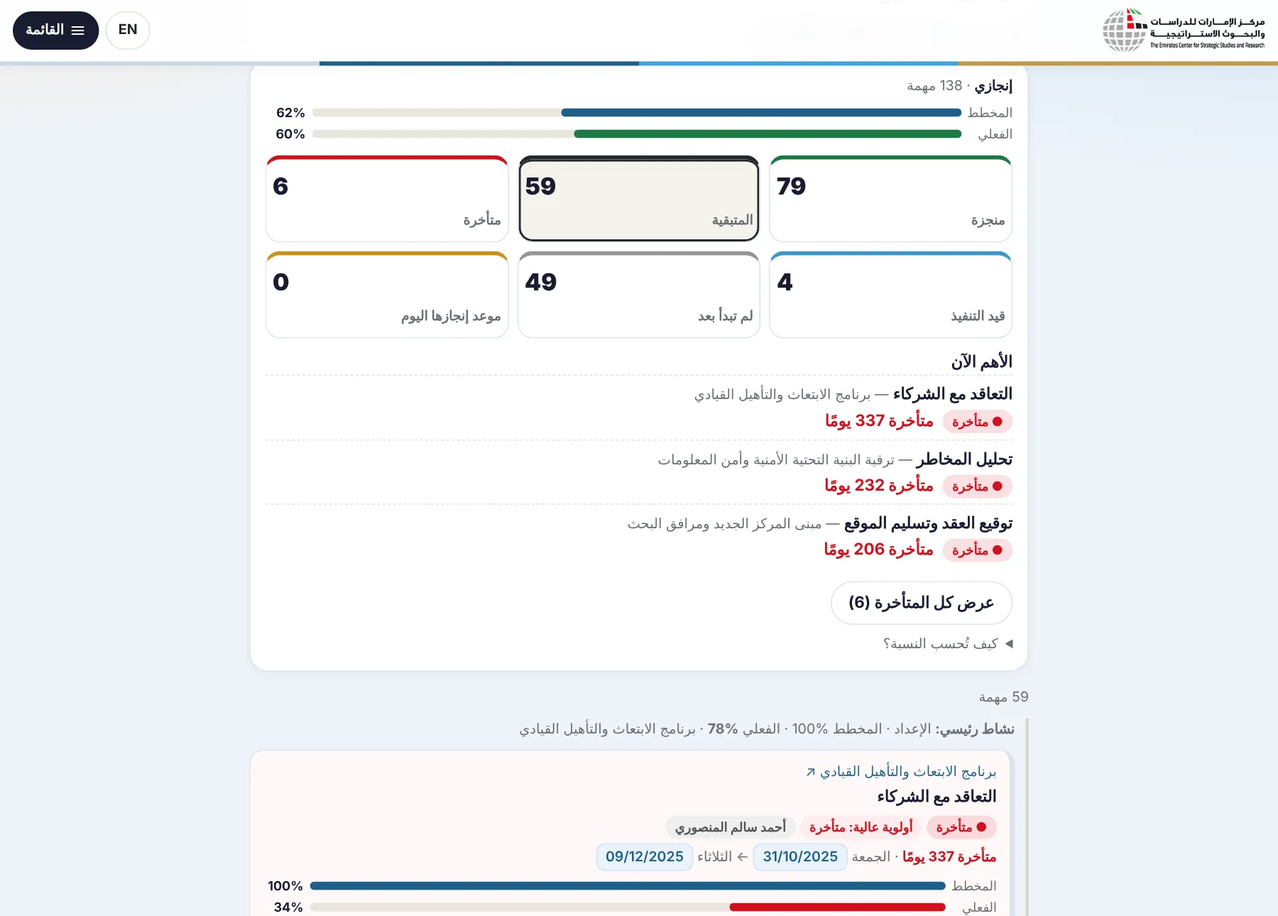
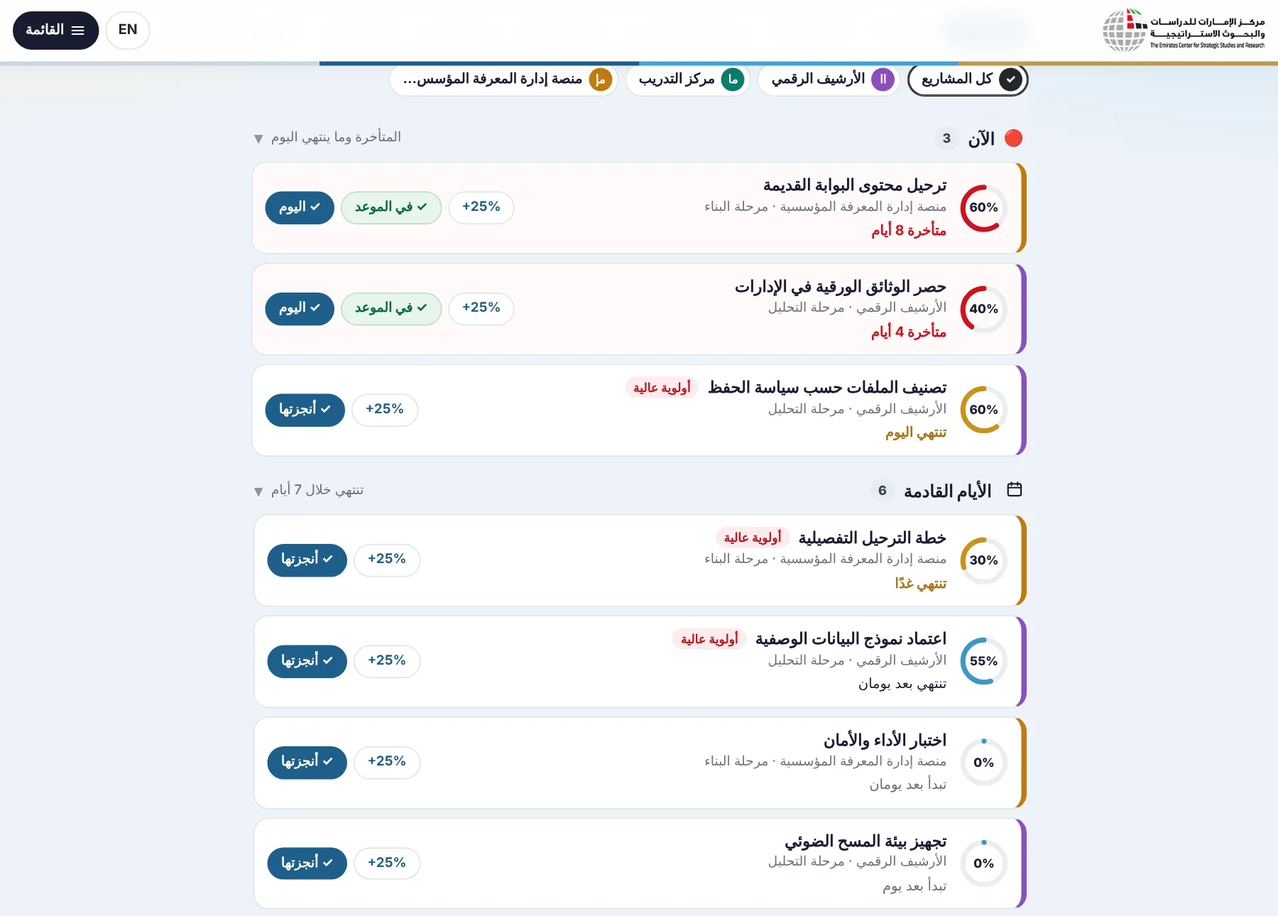
Visual tour: new My tasks screens (greeting tiles, time sections, task panel) with updated captions; accordion arrow direction in English
Claude-Session: https://claude.ai/code/session_01AUYYeyahPGT9XEoL5uypg9

diff --git a/tour/scenes.js b/tour/scenes.js
@@ -1,1 +1,1 @@
-window.SCENES={"phone":{"m":true,"ar":{"img":"img/phone_ar.webp","w":430,"h":932,"t":{"hero":{"x":14,"y":76,"w":402,"h":200},"nav":{"x":12,"y":847,"w":406,"h":75},"chat":{"x":14,"y":779,"w":54,"h":54},"create":{"x":298,"y":786,"w":119,"h":47},"tasksfab":{"x":282,"y":854,"w":63,"h":61}}},"en":{"img":"img/phone_en.webp","w":430,"h":932,"t":{"hero":{"x":14,"y":76,"w":402,"h":222},"nav":{"x":12,"y":847,"w":406,"h":75},"chat":{"x":362,"y":779,"w":54,"h":54},"create":{"x":14,"y":786,"w":136,"h":47},"tasksfab":{"x":85,"y":854,"w":63,"h":61}}}},"home":{"m":false,"ar":{"img":"img/home_ar.webp?v=2","w":1440,"h":900,"t":{"hero":{"x":234,"y":76,"w":972,"h":200},"summary":{"x":258,"y":138,"w":924,"h":45},"search":{"x":308,"y":197,"w":824,"h":45},"menu":{"x":234,"y":11,"w":81,"h":36},"lang":{"x":321,"y":11,"w":42,"h":36},"journey":{"x":234,"y":288,"w":972,"h":56},"tabs2":{"x":234,"y":358,"w":972,"h":41}}},"en":{"img":"img/home_en.webp?v=2","w":1440,"h":900,"t":{"hero":{"x":234,"y":76,"w":972,"h":200},"summary":{"x":258,"y":138,"w":924,"h":45},"search":{"x":308,"y":197,"w":824,"h":45},"menu":{"x":1125,"y":11,"w":81,"h":36},"lang":{"x":1066,"y":11,"w":53,"h":36},"journey":{"x":234,"y":288,"w":972,"h":56},"tabs2":{"x":234,"y":358,"w":972,"h":41}}}},"menu":{"m":false,"ar":{"img":"img/menu_ar.webp?v=2","w":1440,"h":900,"t":{"drawer":{"x":234,"y":53,"w":250,"h":402}}},"en":{"img":"img/menu_en.webp?v=2","w":1440,"h":900,"t":{"drawer":{"x":956,"y":53,"w":250,"h":402}}}},"board":{"m":false,"ar":{"img":"img/board_ar.webp?v=2","w":1440,"h":900,"t":{"scope":{"x":260,"y":149,"w":920,"h":37},"chips":{"x":260,"y":194,"w":920,"h":33},"legend":{"x":249,"y":280,"w":123,"h":35},"cols":{"x":249,"y":326,"w":942,"h":552},"col1":{"x":1011,"y":326,"w":180,"h":548},"col3":{"x":630,"y":326,"w":180,"h":548},"card":{"x":1021,"y":366,"w":162,"h":112},"act":{"x":1068,"y":447,"w":103,"h":25},"pj":{"x":1029,"y":447,"w":33,"h":25},"views":{"x":1001,"y":98,"w":142,"h":31},"more":{"x":1041,"y":280,"w":150,"h":35},"create":{"x":1308,"y":837,"w":119,"h":47},"chat":{"x":14,"y":765,"w":54,"h":54}}},"en":{"img":"img/board_en.webp?v=2","w":1440,"h":900,"t":{"scope":{"x":260,"y":149,"w":920,"h":37},"chips":{"x":260,"y":194,"w":920,"h":33},"legend":{"x":1098,"y":280,"w":93,"h":35},"cols":{"x":249,"y":326,"w":942,"h":552},"col1":{"x":249,"y":326,"w":180,"h":548},"col3":{"x":630,"y":326,"w":180,"h":548},"card":{"x":257,"y":366,"w":162,"h":112},"act":{"x":269,"y":447,"w":103,"h":25},"pj":{"x":378,"y":447,"w":33,"h":25},"views":{"x":342,"y":98,"w":161,"h":31},"more":{"x":249,"y":280,"w":179,"h":35},"create":{"x":14,"y":837,"w":136,"h":47},"chat":{"x":1372,"y":765,"w":54,"h":54}}}},"create":{"m":false,"ar":{"img":"img/create_ar.webp?v=2","w":1440,"h":900,"t":{"pop":{"x":1216,"y":648,"w":210,"h":184},"create":{"x":1308,"y":837,"w":119,"h":47}}},"en":{"img":"img/create_en.webp?v=2","w":1440,"h":900,"t":{"pop":{"x":14,"y":648,"w":210,"h":184},"create":{"x":14,"y":837,"w":136,"h":47}}}},"services":{"m":false,"ar":{"img":"img/services_ar.webp","w":1440,"h":900,"t":{"cards":{"x":234,"y":351,"w":972,"h":439},"card1":{"x":234,"y":351,"w":972,"h":439}}},"en":{"img":"img/services_en.webp","w":1440,"h":900,"t":{"cards":{"x":234,"y":328,"w":972,"h":461},"card1":{"x":234,"y":328,"w":972,"h":461}}}},"charter_home":{"m":false,"ar":{"img":"img/charter_home_ar.webp?v=2","w":1200,"h":860,"t":{"new":{"x":471,"y":144,"w":111,"h":43},"draft":{"x":180,"y":144,"w":157,"h":43},"kpis":{"x":162,"y":219,"w":876,"h":101},"list":{"x":162,"y":332,"w":876,"h":579},"tabs":{"x":162,"y":74,"w":876,"h":38}}},"en":{"img":"img/charter_home_en.webp?v=2","w":1200,"h":860,"t":{"new":{"x":635,"y":144,"w":135,"h":43},"draft":{"x":858,"y":144,"w":162,"h":43},"kpis":{"x":162,"y":219,"w":876,"h":101},"list":{"x":162,"y":332,"w":876,"h":620},"tabs":{"x":162,"y":74,"w":876,"h":38}}}},"ch_draft":{"m":false,"ar":{"img":"img/ch_draft_ar.webp","w":1200,"h":860,"t":{"head":{"x":177,"y":234,"w":841,"h":61},"prog":{"x":162,"y":451,"w":876,"h":27},"tabs":{"x":162,"y":486,"w":876,"h":54},"svc":{"x":162,"y":158,"w":876,"h":51},"fields":{"x":162,"y":545,"w":876,"h":976},"submit":{"x":552,"y":809,"w":109,"h":43},"save":{"x":670,"y":809,"w":117,"h":43},"files":{"x":413,"y":809,"w":131,"h":43}}},"en":{"img":"img/ch_draft_en.webp","w":1200,"h":860,"t":{"head":{"x":182,"y":234,"w":841,"h":61},"prog":{"x":162,"y":451,"w":876,"h":27},"tabs":{"x":162,"y":486,"w":876,"h":54},"svc":{"x":162,"y":158,"w":876,"h":51},"fields":{"x":162,"y":545,"w":876,"h":996},"submit":{"x":523,"y":809,"w":137,"h":43},"save":{"x":411,"y":809,"w":104,"h":43},"files":{"x":668,"y":809,"w":121,"h":43}}}},"plan_new":{"m":false,"ar":{"img":"img/plan_new_ar.webp","w":1200,"h":860,"t":{"list":{"x":177,"y":173,"w":846,"h":43},"start":{"x":915,"y":522,"w":92,"h":31},"tpl":{"x":162,"y":158,"w":876,"h":738}}},"en":{"img":"img/plan_new_en.webp","w":1200,"h":860,"t":{"list":{"x":177,"y":173,"w":846,"h":43},"start":{"x":193,"y":522,"w":114,"h":31},"tpl":{"x":162,"y":158,"w":876,"h":738}}}},"pl_draft":{"m":false,"ar":{"img":"img/pl_draft_ar.webp","w":1200,"h":860,"t":{"head":{"x":177,"y":234,"w":841,"h":61},"views":{"x":542,"y":579,"w":481,"h":37},"lab":{"x":636,"y":625,"w":126,"h":35},"checks":{"x":177,"y":717,"w":846,"h":26},"submit":{"x":554,"y":809,"w":106,"h":43},"collab":{"x":624,"y":486,"w":179,"h":40}}},"en":{"img":"img/pl_draft_en.webp","w":1200,"h":860,"t":{"head":{"x":182,"y":234,"w":841,"h":61},"views":{"x":177,"y":579,"w":596,"h":37},"lab":{"x":659,"y":625,"w":102,"h":35},"checks":{"x":177,"y":717,"w":846,"h":26},"submit":{"x":533,"y":809,"w":116,"h":43},"collab":{"x":420,"y":486,"w":181,"h":40}}}},"pl_gantt":{"m":false,"ar":{"img":"img/pl_gantt_ar.webp","w":1200,"h":860,"t":{"tab":{"x":837,"y":60,"w":94,"h":35},"chart":{"x":10,"y":346,"w":1180,"h":204}}},"en":{"img":"img/pl_gantt_en.webp","w":1200,"h":860,"t":{"tab":{"x":265,"y":60,"w":121,"h":35},"chart":{"x":10,"y":346,"w":1180,"h":204}}}},"tasks":{"m":false,"ar":{"img":"img/tasks_ar.webp","w":1200,"h":860,"t":{"scope":{"x":234,"y":195,"w":732,"h":41},"chips":{"x":234,"y":345,"w":732,"h":88},"add":{"x":835,"y":487,"w":131,"h":41},"cal":{"x":659,"y":487,"w":168,"h":41},"views":{"x":234,"y":296,"w":732,"h":41}}},"en":{"img":"img/tasks_en.webp","w":1200,"h":860,"t":{"scope":{"x":234,"y":195,"w":732,"h":41},"chips":{"x":234,"y":345,"w":732,"h":88},"add":{"x":234,"y":487,"w":200,"h":41},"cal":{"x":442,"y":487,"w":194,"h":41},"views":{"x":234,"y":296,"w":732,"h":41}}}},"tasks2":{"m":false,"ar":{"img":"img/tasks2_ar.webp","w":1200,"h":860,"t":{"kpis":{"x":249,"y":328,"w":702,"h":259}}},"en":{"img":"img/tasks2_en.webp","w":1200,"h":860,"t":{"kpis":{"x":249,"y":328,"w":702,"h":259}}}},"cr_draft":{"m":false,"ar":{"img":"img/cr_draft_ar.webp","w":1200,"h":860,"t":{"link":{"x":177,"y":525,"w":846,"h":128},"tabs":{"x":162,"y":422,"w":876,"h":54},"submit":{"x":553,"y":809,"w":107,"h":43}}},"en":{"img":"img/cr_draft_en.webp","w":1200,"h":860,"t":{"link":{"x":177,"y":525,"w":846,"h":128},"tabs":{"x":162,"y":422,"w":876,"h":54},"submit":{"x":521,"y":809,"w":140,"h":43}}}},"cl_draft":{"m":false,"ar":{"img":"img/cl_draft_ar.webp","w":1200,"h":860,"t":{"pick":{"x":177,"y":642,"w":846,"h":128},"tabs":{"x":162,"y":539,"w":876,"h":54},"submit":{"x":553,"y":809,"w":108,"h":43},"assigned":{"x":177,"y":379,"w":841,"h":45}}},"en":{"img":"img/cl_draft_en.webp","w":1200,"h":860,"t":{"pick":{"x":177,"y":642,"w":846,"h":128},"tabs":{"x":162,"y":539,"w":876,"h":54},"submit":{"x":527,"y":809,"w":129,"h":43},"assigned":{"x":182,"y":379,"w":841,"h":45}}}},"charter_review":{"m":false,"ar":{"img":"img/charter_review_ar.webp","w":1200,"h":860,"t":{"status":{"x":177,"y":234,"w":84,"h":23},"head":{"x":177,"y":234,"w":841,"h":61},"bar":{"x":150,"y":770,"w":900,"h":82},"sign":{"x":869,"y":770,"w":160,"h":43},"direct":{"x":566,"y":770,"w":294,"h":43},"back":{"x":436,"y":770,"w":122,"h":43},"feas":{"x":243,"y":770,"w":185,"h":43},"reject":{"x":171,"y":770,"w":64,"h":43},"notes":{"x":795,"y":451,"w":243,"h":43},"word":{"x":863,"y":381,"w":155,"h":43}}},"en":{"img":"img/charter_review_en.webp","w":1200,"h":860,"t":{"status":{"x":923,"y":234,"w":100,"h":23},"head":{"x":182,"y":234,"w":841,"h":61},"bar":{"x":150,"y":758,"w":900,"h":94},"sign":{"x":192,"y":758,"w":221,"h":43},"direct":{"x":421,"y":758,"w":417,"h":43},"back":{"x":846,"y":758,"w":161,"h":43},"feas":{"x":345,"y":809,"w":296,"h":43},"reject":{"x":649,"y":809,"w":76,"h":43},"notes":{"x":162,"y":451,"w":232,"h":43},"word":{"x":182,"y":381,"w":159,"h":43}}}},"review_flow":{"m":false,"ar":{"img":"img/review_flow_ar.webp","w":1200,"h":860,"t":{"followers":{"x":177,"y":149,"w":846,"h":198},"esc":{"x":177,"y":355,"w":846,"h":162},"stage1":{"x":177,"y":524,"w":846,"h":210},"bar":{"x":150,"y":770,"w":900,"h":82}}},"en":{"img":"img/review_flow_en.webp","w":1200,"h":860,"t":{"followers":{"x":177,"y":149,"w":846,"h":198},"esc":{"x":177,"y":355,"w":846,"h":162},"stage1":{"x":177,"y":524,"w":846,"h":210},"bar":{"x":150,"y":758,"w":900,"h":94}}}},"inbox":{"m":false,"ar":{"img":"img/inbox_ar.webp","w":1200,"h":860,"t":{"filters":{"x":234,"y":237,"w":732,"h":41},"svc":{"x":234,"y":286,"w":732,"h":41},"item":{"x":249,"y":15852,"w":702,"h":37}}},"en":{"img":"img/inbox_en.webp","w":1200,"h":860,"t":{"filters":{"x":234,"y":237,"w":732,"h":88},"svc":{"x":234,"y":333,"w":732,"h":41},"item":{"x":249,"y":15923,"w":702,"h":37}}}},"myprojects":{"m":false,"ar":{"img":"img/myprojects_ar.webp?v=2","w":1440,"h":900,"t":{"kpi":{"x":129,"y":129,"w":1183,"h":188},"views":{"x":964,"y":330,"w":347,"h":38},"card":{"x":927,"y":383,"w":385,"h":400},"health":{"x":942,"y":398,"w":86,"h":20},"steps":{"x":942,"y":569,"w":351,"h":40},"metrics":{"x":942,"y":617,"w":351,"h":53},"btns":{"x":942,"y":726,"w":351,"h":42}}},"en":{"img":"img/myprojects_en.webp?v=2","w":1440,"h":900,"t":{"kpi":{"x":129,"y":129,"w":1183,"h":233},"views":{"x":129,"y":376,"w":319,"h":38},"card":{"x":129,"y":428,"w":385,"h":421},"health":{"x":298,"y":443,"w":200,"h":20},"steps":{"x":148,"y":615,"w":351,"h":40},"metrics":{"x":148,"y":662,"w":351,"h":53},"btns":{"x":148,"y":792,"w":351,"h":42}}}},"portfolio":{"m":false,"ar":{"img":"img/portfolio_ar.webp","w":1440,"h":900,"t":{"tabs":{"x":134,"y":195,"w":1172,"h":134},"kpis":{"x":134,"y":412,"w":1172,"h":100},"prio":{"x":134,"y":523,"w":1172,"h":548}}},"en":{"img":"img/portfolio_en.webp","w":1440,"h":900,"t":{"tabs":{"x":134,"y":195,"w":1172,"h":134},"kpis":{"x":134,"y":412,"w":1172,"h":100},"prio":{"x":134,"y":523,"w":1172,"h":548}}}},"chat_open":{"m":false,"ar":{"img":"img/chat_open_ar.webp?v=2","w":1440,"h":900,"t":{"rail":{"x":939,"y":136,"w":318,"h":751},"conv":{"x":183,"y":132,"w":744,"h":693},"composer":{"x":191,"y":831,"w":728,"h":46},"mic":{"x":191,"y":831,"w":46,"h":46},"head":{"x":1009,"y":278,"w":174,"h":46}}},"en":{"img":"img/chat_open_en.webp?v=2","w":1440,"h":900,"t":{"rail":{"x":939,"y":136,"w":318,"h":751},"conv":{"x":183,"y":132,"w":744,"h":693},"composer":{"x":191,"y":831,"w":728,"h":46},"mic":{"x":191,"y":831,"w":46,"h":46},"head":{"x":1019,"y":300,"w":164,"h":46}}}},"ratings":{"m":false,"ar":{"img":"img/ratings_ar.webp","w":1200,"h":860,"t":{"filters":{"x":124,"y":189,"w":952,"h":175},"kpis":{"x":124,"y":378,"w":952,"h":78},"how":{"x":124,"y":469,"w":952,"h":55},"dist":{"x":124,"y":538,"w":952,"h":212}}},"en":{"img":"img/ratings_en.webp","w":1200,"h":860,"t":{"filters":{"x":124,"y":189,"w":952,"h":175},"kpis":{"x":124,"y":378,"w":952,"h":78},"how":{"x":124,"y":469,"w":952,"h":55},"dist":{"x":124,"y":538,"w":952,"h":212}}}},"workspace":{"m":false,"ar":{"img":"img/workspace_ar.webp?v=2","w":1440,"h":900,"t":{"btn":{"x":795,"y":314,"w":159,"h":38},"upd":{"x":129,"y":367,"w":1183,"h":331},"secs":{"x":129,"y":749,"w":1183,"h":73}}},"en":{"img":"img/workspace_en.webp?v=2","w":1440,"h":900,"t":{"btn":{"x":458,"y":314,"w":183,"h":38},"upd":{"x":129,"y":366,"w":1183,"h":331},"secs":{"x":129,"y":749,"w":1183,"h":73}}}},"ws_risks":{"m":false,"ar":{"img":"img/ws_risks_ar.webp?v=2","w":1440,"h":900,"t":{"quick":{"x":143,"y":646,"w":1152,"h":44},"row":{"x":142,"y":559,"w":1157,"h":131}}},"en":{"img":"img/ws_risks_en.webp?v=2","w":1440,"h":900,"t":{"quick":{"x":146,"y":646,"w":1152,"h":44},"row":{"x":142,"y":559,"w":1157,"h":131}}}},"ws_risk":{"m":false,"ar":{"img":"img/ws_risk_ar.webp?v=2","w":1440,"h":900,"t":{"sheet":{"x":420,"y":54,"w":600,"h":792},"quick":{"x":438,"y":269,"w":564,"h":183},"edit":{"x":438,"y":461,"w":564,"h":320}}},"en":{"img":"img/ws_risk_en.webp?v=2","w":1440,"h":900,"t":{"sheet":{"x":420,"y":54,"w":600,"h":792},"quick":{"x":438,"y":269,"w":564,"h":183},"edit":{"x":438,"y":461,"w":564,"h":320}}}},"ws_kpi":{"m":false,"ar":{"img":"img/ws_kpi_ar.webp?v=2","w":1440,"h":900,"t":{"sheet":{"x":420,"y":114,"w":600,"h":672},"hist":{"x":438,"y":366,"w":564,"h":84},"entry":{"x":438,"y":460,"w":564,"h":261}}},"en":{"img":"img/ws_kpi_en.webp?v=2","w":1440,"h":900,"t":{"sheet":{"x":420,"y":114,"w":600,"h":672},"hist":{"x":438,"y":366,"w":564,"h":84},"entry":{"x":438,"y":460,"w":564,"h":261}}}},"ws_acts":{"m":false,"ar":{"img":"img/ws_acts_ar.webp?v=2","w":1440,"h":900,"t":{"sheet":{"x":420,"y":319,"w":600,"h":262},"act":{"x":438,"y":467,"w":564,"h":49}}},"en":{"img":"img/ws_acts_en.webp?v=2","w":1440,"h":900,"t":{"sheet":{"x":420,"y":319,"w":600,"h":262},"act":{"x":438,"y":467,"w":564,"h":49}}}},"ws_bud":{"m":false,"ar":{"img":"img/ws_bud_ar.webp?v=2","w":1440,"h":900,"t":{"sheet":{"x":420,"y":210,"w":600,"h":480},"entry":{"x":438,"y":436,"w":564,"h":189},"link":{"x":438,"y":633,"w":564,"h":21}}},"en":{"img":"img/ws_bud_en.webp?v=2","w":1440,"h":900,"t":{"sheet":{"x":420,"y":210,"w":600,"h":480},"entry":{"x":438,"y":436,"w":564,"h":189},"link":{"x":438,"y":633,"w":564,"h":21}}}}};
+window.SCENES={"phone":{"m":true,"ar":{"img":"img/phone_ar.webp","w":430,"h":932,"t":{"hero":{"x":14,"y":76,"w":402,"h":200},"nav":{"x":12,"y":847,"w":406,"h":75},"chat":{"x":14,"y":779,"w":54,"h":54},"create":{"x":298,"y":786,"w":119,"h":47},"tasksfab":{"x":282,"y":854,"w":63,"h":61}}},"en":{"img":"img/phone_en.webp","w":430,"h":932,"t":{"hero":{"x":14,"y":76,"w":402,"h":222},"nav":{"x":12,"y":847,"w":406,"h":75},"chat":{"x":362,"y":779,"w":54,"h":54},"create":{"x":14,"y":786,"w":136,"h":47},"tasksfab":{"x":85,"y":854,"w":63,"h":61}}}},"home":{"m":false,"ar":{"img":"img/home_ar.webp?v=2","w":1440,"h":900,"t":{"hero":{"x":234,"y":76,"w":972,"h":200},"summary":{"x":258,"y":138,"w":924,"h":45},"search":{"x":308,"y":197,"w":824,"h":45},"menu":{"x":234,"y":11,"w":81,"h":36},"lang":{"x":321,"y":11,"w":42,"h":36},"journey":{"x":234,"y":288,"w":972,"h":56},"tabs2":{"x":234,"y":358,"w":972,"h":41}}},"en":{"img":"img/home_en.webp?v=2","w":1440,"h":900,"t":{"hero":{"x":234,"y":76,"w":972,"h":200},"summary":{"x":258,"y":138,"w":924,"h":45},"search":{"x":308,"y":197,"w":824,"h":45},"menu":{"x":1125,"y":11,"w":81,"h":36},"lang":{"x":1066,"y":11,"w":53,"h":36},"journey":{"x":234,"y":288,"w":972,"h":56},"tabs2":{"x":234,"y":358,"w":972,"h":41}}}},"menu":{"m":false,"ar":{"img":"img/menu_ar.webp?v=2","w":1440,"h":900,"t":{"drawer":{"x":234,"y":53,"w":250,"h":402}}},"en":{"img":"img/menu_en.webp?v=2","w":1440,"h":900,"t":{"drawer":{"x":956,"y":53,"w":250,"h":402}}}},"board":{"m":false,"ar":{"img":"img/board_ar.webp?v=2","w":1440,"h":900,"t":{"scope":{"x":260,"y":149,"w":920,"h":37},"chips":{"x":260,"y":194,"w":920,"h":33},"legend":{"x":249,"y":280,"w":123,"h":35},"cols":{"x":249,"y":326,"w":942,"h":552},"col1":{"x":1011,"y":326,"w":180,"h":548},"col3":{"x":630,"y":326,"w":180,"h":548},"card":{"x":1021,"y":366,"w":162,"h":112},"act":{"x":1068,"y":447,"w":103,"h":25},"pj":{"x":1029,"y":447,"w":33,"h":25},"views":{"x":1001,"y":98,"w":142,"h":31},"more":{"x":1041,"y":280,"w":150,"h":35},"create":{"x":1308,"y":837,"w":119,"h":47},"chat":{"x":14,"y":765,"w":54,"h":54}}},"en":{"img":"img/board_en.webp?v=2","w":1440,"h":900,"t":{"scope":{"x":260,"y":149,"w":920,"h":37},"chips":{"x":260,"y":194,"w":920,"h":33},"legend":{"x":1098,"y":280,"w":93,"h":35},"cols":{"x":249,"y":326,"w":942,"h":552},"col1":{"x":249,"y":326,"w":180,"h":548},"col3":{"x":630,"y":326,"w":180,"h":548},"card":{"x":257,"y":366,"w":162,"h":112},"act":{"x":269,"y":447,"w":103,"h":25},"pj":{"x":378,"y":447,"w":33,"h":25},"views":{"x":342,"y":98,"w":161,"h":31},"more":{"x":249,"y":280,"w":179,"h":35},"create":{"x":14,"y":837,"w":136,"h":47},"chat":{"x":1372,"y":765,"w":54,"h":54}}}},"create":{"m":false,"ar":{"img":"img/create_ar.webp?v=2","w":1440,"h":900,"t":{"pop":{"x":1216,"y":648,"w":210,"h":184},"create":{"x":1308,"y":837,"w":119,"h":47}}},"en":{"img":"img/create_en.webp?v=2","w":1440,"h":900,"t":{"pop":{"x":14,"y":648,"w":210,"h":184},"create":{"x":14,"y":837,"w":136,"h":47}}}},"services":{"m":false,"ar":{"img":"img/services_ar.webp","w":1440,"h":900,"t":{"cards":{"x":234,"y":351,"w":972,"h":439},"card1":{"x":234,"y":351,"w":972,"h":439}}},"en":{"img":"img/services_en.webp","w":1440,"h":900,"t":{"cards":{"x":234,"y":328,"w":972,"h":461},"card1":{"x":234,"y":328,"w":972,"h":461}}}},"charter_home":{"m":false,"ar":{"img":"img/charter_home_ar.webp?v=2","w":1200,"h":860,"t":{"new":{"x":471,"y":144,"w":111,"h":43},"draft":{"x":180,"y":144,"w":157,"h":43},"kpis":{"x":162,"y":219,"w":876,"h":101},"list":{"x":162,"y":332,"w":876,"h":579},"tabs":{"x":162,"y":74,"w":876,"h":38}}},"en":{"img":"img/charter_home_en.webp?v=2","w":1200,"h":860,"t":{"new":{"x":635,"y":144,"w":135,"h":43},"draft":{"x":858,"y":144,"w":162,"h":43},"kpis":{"x":162,"y":219,"w":876,"h":101},"list":{"x":162,"y":332,"w":876,"h":620},"tabs":{"x":162,"y":74,"w":876,"h":38}}}},"ch_draft":{"m":false,"ar":{"img":"img/ch_draft_ar.webp","w":1200,"h":860,"t":{"head":{"x":177,"y":234,"w":841,"h":61},"prog":{"x":162,"y":451,"w":876,"h":27},"tabs":{"x":162,"y":486,"w":876,"h":54},"svc":{"x":162,"y":158,"w":876,"h":51},"fields":{"x":162,"y":545,"w":876,"h":976},"submit":{"x":552,"y":809,"w":109,"h":43},"save":{"x":670,"y":809,"w":117,"h":43},"files":{"x":413,"y":809,"w":131,"h":43}}},"en":{"img":"img/ch_draft_en.webp","w":1200,"h":860,"t":{"head":{"x":182,"y":234,"w":841,"h":61},"prog":{"x":162,"y":451,"w":876,"h":27},"tabs":{"x":162,"y":486,"w":876,"h":54},"svc":{"x":162,"y":158,"w":876,"h":51},"fields":{"x":162,"y":545,"w":876,"h":996},"submit":{"x":523,"y":809,"w":137,"h":43},"save":{"x":411,"y":809,"w":104,"h":43},"files":{"x":668,"y":809,"w":121,"h":43}}}},"plan_new":{"m":false,"ar":{"img":"img/plan_new_ar.webp","w":1200,"h":860,"t":{"list":{"x":177,"y":173,"w":846,"h":43},"start":{"x":915,"y":522,"w":92,"h":31},"tpl":{"x":162,"y":158,"w":876,"h":738}}},"en":{"img":"img/plan_new_en.webp","w":1200,"h":860,"t":{"list":{"x":177,"y":173,"w":846,"h":43},"start":{"x":193,"y":522,"w":114,"h":31},"tpl":{"x":162,"y":158,"w":876,"h":738}}}},"pl_draft":{"m":false,"ar":{"img":"img/pl_draft_ar.webp","w":1200,"h":860,"t":{"head":{"x":177,"y":234,"w":841,"h":61},"views":{"x":542,"y":579,"w":481,"h":37},"lab":{"x":636,"y":625,"w":126,"h":35},"checks":{"x":177,"y":717,"w":846,"h":26},"submit":{"x":554,"y":809,"w":106,"h":43},"collab":{"x":624,"y":486,"w":179,"h":40}}},"en":{"img":"img/pl_draft_en.webp","w":1200,"h":860,"t":{"head":{"x":182,"y":234,"w":841,"h":61},"views":{"x":177,"y":579,"w":596,"h":37},"lab":{"x":659,"y":625,"w":102,"h":35},"checks":{"x":177,"y":717,"w":846,"h":26},"submit":{"x":533,"y":809,"w":116,"h":43},"collab":{"x":420,"y":486,"w":181,"h":40}}}},"pl_gantt":{"m":false,"ar":{"img":"img/pl_gantt_ar.webp","w":1200,"h":860,"t":{"tab":{"x":837,"y":60,"w":94,"h":35},"chart":{"x":10,"y":346,"w":1180,"h":204}}},"en":{"img":"img/pl_gantt_en.webp","w":1200,"h":860,"t":{"tab":{"x":265,"y":60,"w":121,"h":35},"chart":{"x":10,"y":346,"w":1180,"h":204}}}},"tasks":{"m":false,"ar":{"img":"img/tasks_ar.webp?v=3","w":1200,"h":860,"t":{"hero":{"x":234,"y":76,"w":732,"h":203},"chips":{"x":252,"y":165,"w":696,"h":63},"scope":{"x":234,"y":349,"w":732,"h":37},"views":{"x":234,"y":440,"w":732,"h":37},"add":{"x":284,"y":392,"w":42,"h":40},"cal":{"x":234,"y":392,"w":42,"h":40}}},"en":{"img":"img/tasks_en.webp?v=3","w":1200,"h":860,"t":{"hero":{"x":234,"y":76,"w":732,"h":203},"chips":{"x":252,"y":165,"w":696,"h":63},"scope":{"x":234,"y":349,"w":732,"h":37},"views":{"x":234,"y":440,"w":732,"h":37},"add":{"x":874,"y":392,"w":42,"h":40},"cal":{"x":924,"y":392,"w":42,"h":40}}}},"tasks2":{"m":false,"ar":{"img":"img/tasks2_ar.webp?v=3","w":1200,"h":860,"t":{"kpis":{"x":234,"y":110,"w":732,"h":321}}},"en":{"img":"img/tasks2_en.webp?v=3","w":1200,"h":860,"t":{"kpis":{"x":234,"y":110,"w":732,"h":321}}}},"cr_draft":{"m":false,"ar":{"img":"img/cr_draft_ar.webp","w":1200,"h":860,"t":{"link":{"x":177,"y":525,"w":846,"h":128},"tabs":{"x":162,"y":422,"w":876,"h":54},"submit":{"x":553,"y":809,"w":107,"h":43}}},"en":{"img":"img/cr_draft_en.webp","w":1200,"h":860,"t":{"link":{"x":177,"y":525,"w":846,"h":128},"tabs":{"x":162,"y":422,"w":876,"h":54},"submit":{"x":521,"y":809,"w":140,"h":43}}}},"cl_draft":{"m":false,"ar":{"img":"img/cl_draft_ar.webp","w":1200,"h":860,"t":{"pick":{"x":177,"y":642,"w":846,"h":128},"tabs":{"x":162,"y":539,"w":876,"h":54},"submit":{"x":553,"y":809,"w":108,"h":43},"assigned":{"x":177,"y":379,"w":841,"h":45}}},"en":{"img":"img/cl_draft_en.webp","w":1200,"h":860,"t":{"pick":{"x":177,"y":642,"w":846,"h":128},"tabs":{"x":162,"y":539,"w":876,"h":54},"submit":{"x":527,"y":809,"w":129,"h":43},"assigned":{"x":182,"y":379,"w":841,"h":45}}}},"charter_review":{"m":false,"ar":{"img":"img/charter_review_ar.webp","w":1200,"h":860,"t":{"status":{"x":177,"y":234,"w":84,"h":23},"head":{"x":177,"y":234,"w":841,"h":61},"bar":{"x":150,"y":770,"w":900,"h":82},"sign":{"x":869,"y":770,"w":160,"h":43},"direct":{"x":566,"y":770,"w":294,"h":43},"back":{"x":436,"y":770,"w":122,"h":43},"feas":{"x":243,"y":770,"w":185,"h":43},"reject":{"x":171,"y":770,"w":64,"h":43},"notes":{"x":795,"y":451,"w":243,"h":43},"word":{"x":863,"y":381,"w":155,"h":43}}},"en":{"img":"img/charter_review_en.webp","w":1200,"h":860,"t":{"status":{"x":923,"y":234,"w":100,"h":23},"head":{"x":182,"y":234,"w":841,"h":61},"bar":{"x":150,"y":758,"w":900,"h":94},"sign":{"x":192,"y":758,"w":221,"h":43},"direct":{"x":421,"y":758,"w":417,"h":43},"back":{"x":846,"y":758,"w":161,"h":43},"feas":{"x":345,"y":809,"w":296,"h":43},"reject":{"x":649,"y":809,"w":76,"h":43},"notes":{"x":162,"y":451,"w":232,"h":43},"word":{"x":182,"y":381,"w":159,"h":43}}}},"review_flow":{"m":false,"ar":{"img":"img/review_flow_ar.webp","w":1200,"h":860,"t":{"followers":{"x":177,"y":149,"w":846,"h":198},"esc":{"x":177,"y":355,"w":846,"h":162},"stage1":{"x":177,"y":524,"w":846,"h":210},"bar":{"x":150,"y":770,"w":900,"h":82}}},"en":{"img":"img/review_flow_en.webp","w":1200,"h":860,"t":{"followers":{"x":177,"y":149,"w":846,"h":198},"esc":{"x":177,"y":355,"w":846,"h":162},"stage1":{"x":177,"y":524,"w":846,"h":210},"bar":{"x":150,"y":758,"w":900,"h":94}}}},"inbox":{"m":false,"ar":{"img":"img/inbox_ar.webp","w":1200,"h":860,"t":{"filters":{"x":234,"y":237,"w":732,"h":41},"svc":{"x":234,"y":286,"w":732,"h":41},"item":{"x":249,"y":15852,"w":702,"h":37}}},"en":{"img":"img/inbox_en.webp","w":1200,"h":860,"t":{"filters":{"x":234,"y":237,"w":732,"h":88},"svc":{"x":234,"y":333,"w":732,"h":41},"item":{"x":249,"y":15923,"w":702,"h":37}}}},"myprojects":{"m":false,"ar":{"img":"img/myprojects_ar.webp?v=2","w":1440,"h":900,"t":{"kpi":{"x":129,"y":129,"w":1183,"h":188},"views":{"x":964,"y":330,"w":347,"h":38},"card":{"x":927,"y":383,"w":385,"h":400},"health":{"x":942,"y":398,"w":86,"h":20},"steps":{"x":942,"y":569,"w":351,"h":40},"metrics":{"x":942,"y":617,"w":351,"h":53},"btns":{"x":942,"y":726,"w":351,"h":42}}},"en":{"img":"img/myprojects_en.webp?v=2","w":1440,"h":900,"t":{"kpi":{"x":129,"y":129,"w":1183,"h":233},"views":{"x":129,"y":376,"w":319,"h":38},"card":{"x":129,"y":428,"w":385,"h":421},"health":{"x":298,"y":443,"w":200,"h":20},"steps":{"x":148,"y":615,"w":351,"h":40},"metrics":{"x":148,"y":662,"w":351,"h":53},"btns":{"x":148,"y":792,"w":351,"h":42}}}},"portfolio":{"m":false,"ar":{"img":"img/portfolio_ar.webp","w":1440,"h":900,"t":{"tabs":{"x":134,"y":195,"w":1172,"h":134},"kpis":{"x":134,"y":412,"w":1172,"h":100},"prio":{"x":134,"y":523,"w":1172,"h":548}}},"en":{"img":"img/portfolio_en.webp","w":1440,"h":900,"t":{"tabs":{"x":134,"y":195,"w":1172,"h":134},"kpis":{"x":134,"y":412,"w":1172,"h":100},"prio":{"x":134,"y":523,"w":1172,"h":548}}}},"chat_open":{"m":false,"ar":{"img":"img/chat_open_ar.webp?v=2","w":1440,"h":900,"t":{"rail":{"x":939,"y":136,"w":318,"h":751},"conv":{"x":183,"y":132,"w":744,"h":693},"composer":{"x":191,"y":831,"w":728,"h":46},"mic":{"x":191,"y":831,"w":46,"h":46},"head":{"x":1009,"y":278,"w":174,"h":46}}},"en":{"img":"img/chat_open_en.webp?v=2","w":1440,"h":900,"t":{"rail":{"x":939,"y":136,"w":318,"h":751},"conv":{"x":183,"y":132,"w":744,"h":693},"composer":{"x":191,"y":831,"w":728,"h":46},"mic":{"x":191,"y":831,"w":46,"h":46},"head":{"x":1019,"y":300,"w":164,"h":46}}}},"ratings":{"m":false,"ar":{"img":"img/ratings_ar.webp","w":1200,"h":860,"t":{"filters":{"x":124,"y":189,"w":952,"h":175},"kpis":{"x":124,"y":378,"w":952,"h":78},"how":{"x":124,"y":469,"w":952,"h":55},"dist":{"x":124,"y":538,"w":952,"h":212}}},"en":{"img":"img/ratings_en.webp","w":1200,"h":860,"t":{"filters":{"x":124,"y":189,"w":952,"h":175},"kpis":{"x":124,"y":378,"w":952,"h":78},"how":{"x":124,"y":469,"w":952,"h":55},"dist":{"x":124,"y":538,"w":952,"h":212}}}},"workspace":{"m":false,"ar":{"img":"img/workspace_ar.webp?v=2","w":1440,"h":900,"t":{"btn":{"x":795,"y":314,"w":159,"h":38},"upd":{"x":129,"y":367,"w":1183,"h":331},"secs":{"x":129,"y":749,"w":1183,"h":73}}},"en":{"img":"img/workspace_en.webp?v=2","w":1440,"h":900,"t":{"btn":{"x":458,"y":314,"w":183,"h":38},"upd":{"x":129,"y":366,"w":1183,"h":331},"secs":{"x":129,"y":749,"w":1183,"h":73}}}},"ws_risks":{"m":false,"ar":{"img":"img/ws_risks_ar.webp?v=2","w":1440,"h":900,"t":{"quick":{"x":143,"y":646,"w":1152,"h":44},"row":{"x":142,"y":559,"w":1157,"h":131}}},"en":{"img":"img/ws_risks_en.webp?v=2","w":1440,"h":900,"t":{"quick":{"x":146,"y":646,"w":1152,"h":44},"row":{"x":142,"y":559,"w":1157,"h":131}}}},"ws_risk":{"m":false,"ar":{"img":"img/ws_risk_ar.webp?v=2","w":1440,"h":900,"t":{"sheet":{"x":420,"y":54,"w":600,"h":792},"quick":{"x":438,"y":269,"w":564,"h":183},"edit":{"x":438,"y":461,"w":564,"h":320}}},"en":{"img":"img/ws_risk_en.webp?v=2","w":1440,"h":900,"t":{"sheet":{"x":420,"y":54,"w":600,"h":792},"quick":{"x":438,"y":269,"w":564,"h":183},"edit":{"x":438,"y":461,"w":564,"h":320}}}},"ws_kpi":{"m":false,"ar":{"img":"img/ws_kpi_ar.webp?v=2","w":1440,"h":900,"t":{"sheet":{"x":420,"y":114,"w":600,"h":672},"hist":{"x":438,"y":366,"w":564,"h":84},"entry":{"x":438,"y":460,"w":564,"h":261}}},"en":{"img":"img/ws_kpi_en.webp?v=2","w":1440,"h":900,"t":{"sheet":{"x":420,"y":114,"w":600,"h":672},"hist":{"x":438,"y":366,"w":564,"h":84},"entry":{"x":438,"y":460,"w":564,"h":261}}}},"ws_acts":{"m":false,"ar":{"img":"img/ws_acts_ar.webp?v=2","w":1440,"h":900,"t":{"sheet":{"x":420,"y":319,"w":600,"h":262},"act":{"x":438,"y":467,"w":564,"h":49}}},"en":{"img":"img/ws_acts_en.webp?v=2","w":1440,"h":900,"t":{"sheet":{"x":420,"y":319,"w":600,"h":262},"act":{"x":438,"y":467,"w":564,"h":49}}}},"ws_bud":{"m":false,"ar":{"img":"img/ws_bud_ar.webp?v=2","w":1440,"h":900,"t":{"sheet":{"x":420,"y":210,"w":600,"h":480},"entry":{"x":438,"y":436,"w":564,"h":189},"link":{"x":438,"y":633,"w":564,"h":21}}},"en":{"img":"img/ws_bud_en.webp?v=2","w":1440,"h":900,"t":{"sheet":{"x":420,"y":210,"w":600,"h":480},"entry":{"x":438,"y":436,"w":564,"h":189},"link":{"x":438,"y":633,"w":564,"h":21}}}},"tasks3":{"m":false,"ar":{"img":"img/tasks3_ar.webp?v=3","w":1200,"h":860,"t":{"panel":{"x":0,"y":0,"w":480,"h":860},"prog":{"x":14,"y":135,"w":452,"h":447},"acc":{"x":14,"y":757,"w":452,"h":49}}},"en":{"img":"img/tasks3_en.webp?v=3","w":1200,"h":860,"t":{"panel":{"x":720,"y":0,"w":480,"h":860},"prog":{"x":734,"y":135,"w":452,"h":447},"acc":{"x":734,"y":757,"w":452,"h":49}}}}};

diff --git a/tour/steps.js b/tour/steps.js
@@ -51,9 +51,10 @@ window.STEPS=[
  {ch:'life',s:'pl_draft',t:'checks',c:['فحص الجاهزية','Readiness check'],d:['قبل الإرسال يتأكد النظام من الخطة','Before sending, the system checks the plan'],n:['ينبّه للتواريخ الناقصة والمهام بلا مكلّف وغيرها.','It flags missing dates, unassigned tasks and more.']},
  {ch:'life',s:'pl_draft',t:'submit',a:1,c:['قدّم الخطة','Submit the plan'],d:['للمراجعة ثم الاعتماد','For review, then approval'],n:[],},
  {ch:'life',s:'tasks',c:['٣ · التنفيذ','3 · Delivery'],d:['المهام تصل لأصحابها','Tasks reach their owners'],n:['بعد اعتماد الخطة تظهر المهام لكل مكلّف في «مهامي».','Once the plan is approved, each owner sees their tasks in “My tasks”.']},
- {ch:'life',s:'tasks',t:'chips',c:['أين أنت؟','Where are you?'],d:['متبقية · متأخرة · قيد التنفيذ · منجزة','Remaining · late · in progress · done'],n:['اضغط أي رقم للتصفية.','Tap any number to filter.']},
- {ch:'life',s:'tasks2',t:'kpis',c:['الأهم الآن','What matters now'],d:['ترتيب ذكي حسب الأولوية والتأخر','Smart order by priority and delay'],n:['حدّث نسبة الإنجاز من المهمة نفسها.','Update progress right from the task.']},
- {ch:'life',s:'tasks',t:'cal',a:1,c:['إلى تقويمك','To your calendar'],d:['صدّر المهام إلى Outlook أو الهاتف','Export tasks to Outlook or your phone'],n:[]},
+ {ch:'life',s:'tasks',t:'chips',c:['يومك بنظرة','Your day at a glance'],d:['متأخرة · اليوم وغدًا · هذا الأسبوع · أنجزتها هذا الشهر','Late · today & tomorrow · this week · done this month'],n:['تحية باسمك وأربعة مربعات؛ اضغط أي مربع لترى مهامه فقط، واضغطه مرة أخرى للعودة.','A greeting and four tiles; tap a tile to see only those tasks, tap again to go back.']},
+ {ch:'life',s:'tasks2',t:'kpis',c:['الأهم الآن','What matters now'],d:['الآن · الأيام القادمة · قادمة · بانتظار الفريق · منجزة','Now · next days · upcoming · waiting on the team · done'],n:['المهام مرتبة حسب الوقت، وكل قسم يُطوى ويتمرر داخله. من البطاقة نفسها: +25٪ أو «✓ في الموعد» أو «✓ اليوم».','Tasks are grouped by time; each section folds and scrolls on its own. From the card: +25%, “✓ On time” or “✓ Today”.']},
+ {ch:'life',s:'tasks3',t:'panel',a:1,c:['كل شيء عن المهمة','Everything about the task'],d:['الإنجاز · المواعيد · طلب تعديل الموعد · المرفقات · السجل','Progress · dates · date-change request · files · history'],n:['اضغط المهمة فتفتح لوحتها: على الكمبيوتر جانبية وعلى الهاتف من الأسفل.','Tap a task to open its panel: at the side on a computer, from the bottom on a phone.']},
+ {ch:'life',s:'tasks',t:'cal',a:1,c:['إلى تقويمك','To your calendar'],d:['من «⋯»: صدّر المهام إلى Outlook أو الهاتف','From “⋯”: export tasks to Outlook or your phone'],n:[]},
  {ch:'life',s:'cr_draft',c:['٤ · طلب تغيير','4 · Change request'],d:['عندما يتغير النطاق أو الموعد أو الميزانية','When scope, dates or budget change'],n:['يرتبط الطلب بمشروع معتمد، وتُنقل بياناته تلقائيًا.','The request links to an approved project and pulls its data automatically.']},
  {ch:'life',s:'cr_draft',t:'link',a:1,c:['اربطه بالمشروع','Link it to the project'],d:['البيانات تُعبّأ تلقائيًا','Data fills in automatically'],n:[]},
  {ch:'life',s:'cl_draft',c:['٥ · التقرير الختامي','5 · Closure report'],d:['الإنجازات · التحديات · الدروس','Achievements · challenges · lessons'],n:['يُغلق المشروع رسميًا بعد اعتماد التقرير.','The project closes formally once the report is approved.']},

diff --git a/tasks.html b/tasks.html
@@ -1147,7 +1147,7 @@ html[dir=rtl] .pch button{padding:4px 5px 4px 12px!important}
 .kvm{border-top:1px solid #eef2f6;padding:8px 0;font-size:13px}.kvm .mut{margin:2px 0}
 .acc{background:#fff;border:1px solid #dbe4ec;border-radius:16px;margin:0 0 10px;overflow:hidden}
 .acc summary{list-style:none;display:flex;gap:8px;align-items:center;padding:11px 14px;cursor:pointer}.acc summary::-webkit-details-marker{display:none}
-.acc summary svg{width:18px;height:18px;color:#1d5f8a;flex:none}.acc summary b{flex:1;font-size:14.5px}.acc summary .cv{font-style:normal;color:#8a96a3;transition:transform .2s}.acc:not([open]) summary .cv{transform:rotate(90deg)}
+.acc summary svg{width:18px;height:18px;color:#1d5f8a;flex:none}.acc summary b{flex:1;font-size:14.5px}.acc summary .cv{font-style:normal;color:#8a96a3;transition:transform .2s}.acc:not([open]) summary .cv{transform:rotate(90deg)}html[dir=ltr] .acc:not([open]) summary .cv{transform:rotate(-90deg)}
 .accb{padding:0 14px 12px}.accb .card{border:0!important;padding:0!important;margin:0!important;background:none!important;box-shadow:none!important}
 
 /* project tree rows */

diff --git a/tour/index.html b/tour/index.html
@@ -203,8 +203,8 @@ body.pres #pv{display:grid;position:fixed;inset:0;grid-template-columns:1.4fr 1f
 <div id="jump"><form><label id="jl"></label><input id="ji" type="number" min="1" inputmode="numeric"><button id="jb"></button></form></div>
 <div id="flash"></div><div id="toast"></div><div id="digits"></div>
 <div id="pv"></div>
-<script src="scenes.js?v=10"></script>
-<script src="steps.js?v=7"></script>
+<script src="scenes.js?v=11"></script>
+<script src="steps.js?v=8"></script>
 <script>
 (function(){
 'use strict';
